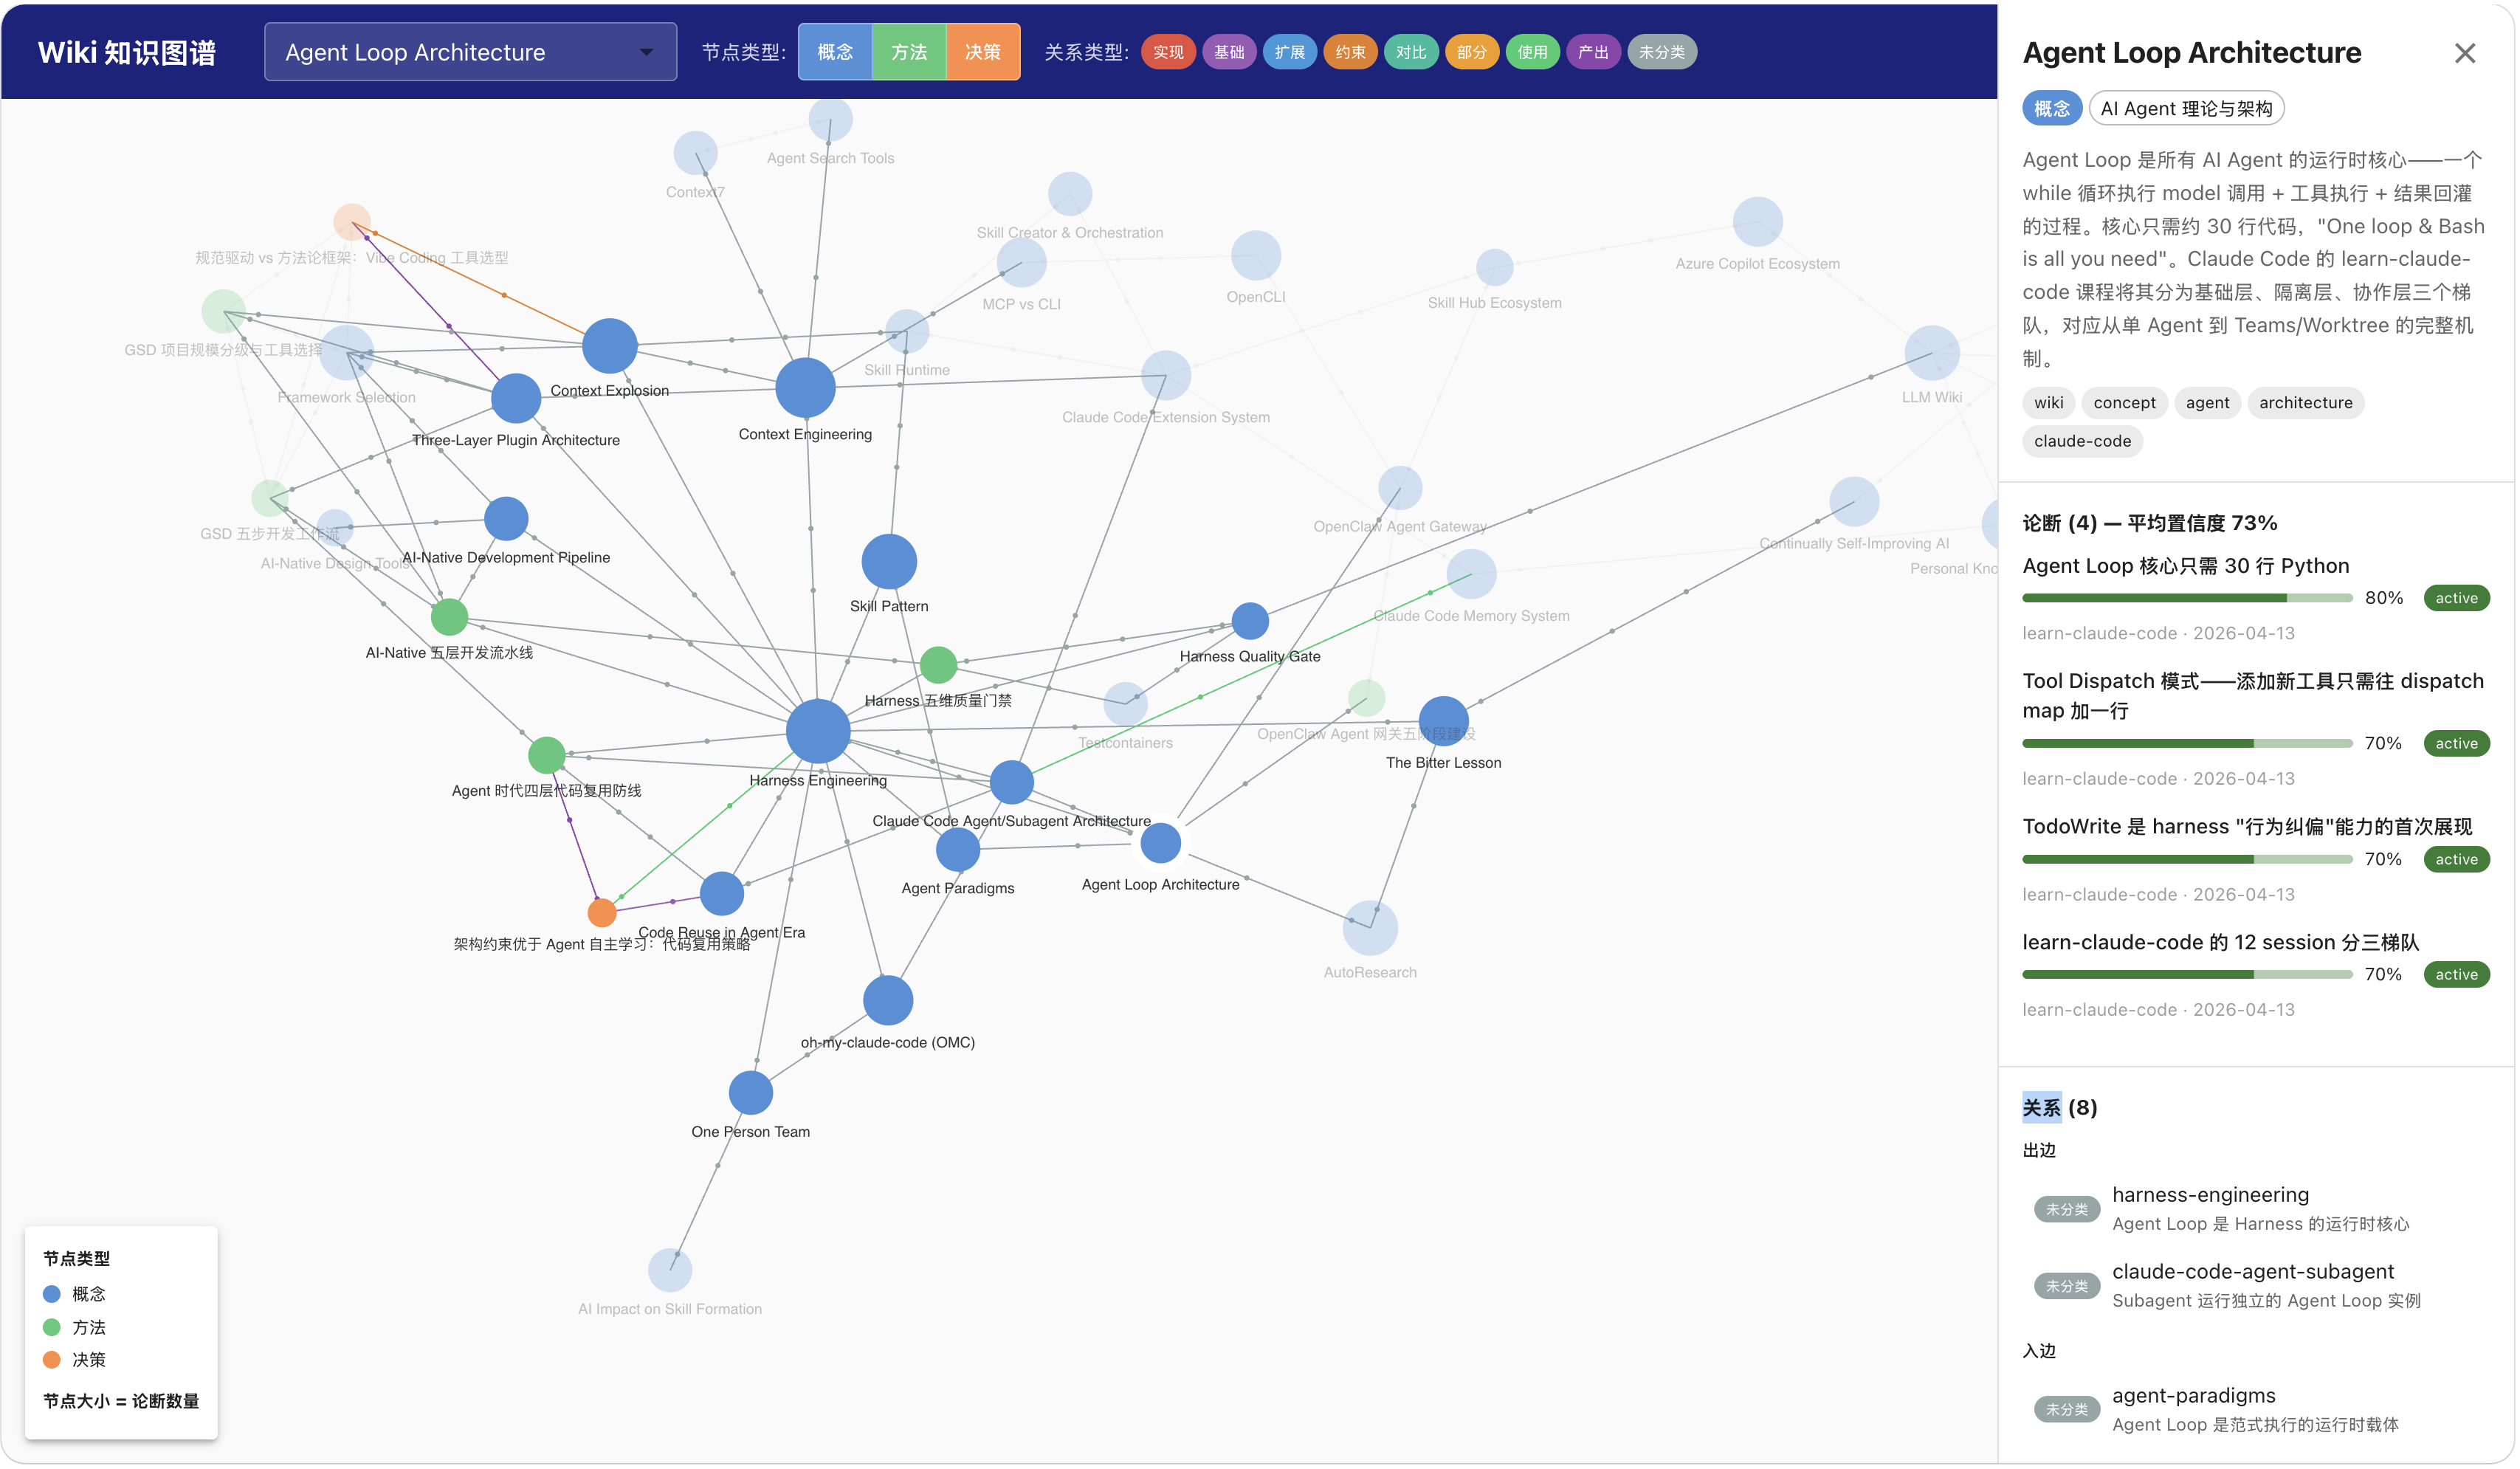
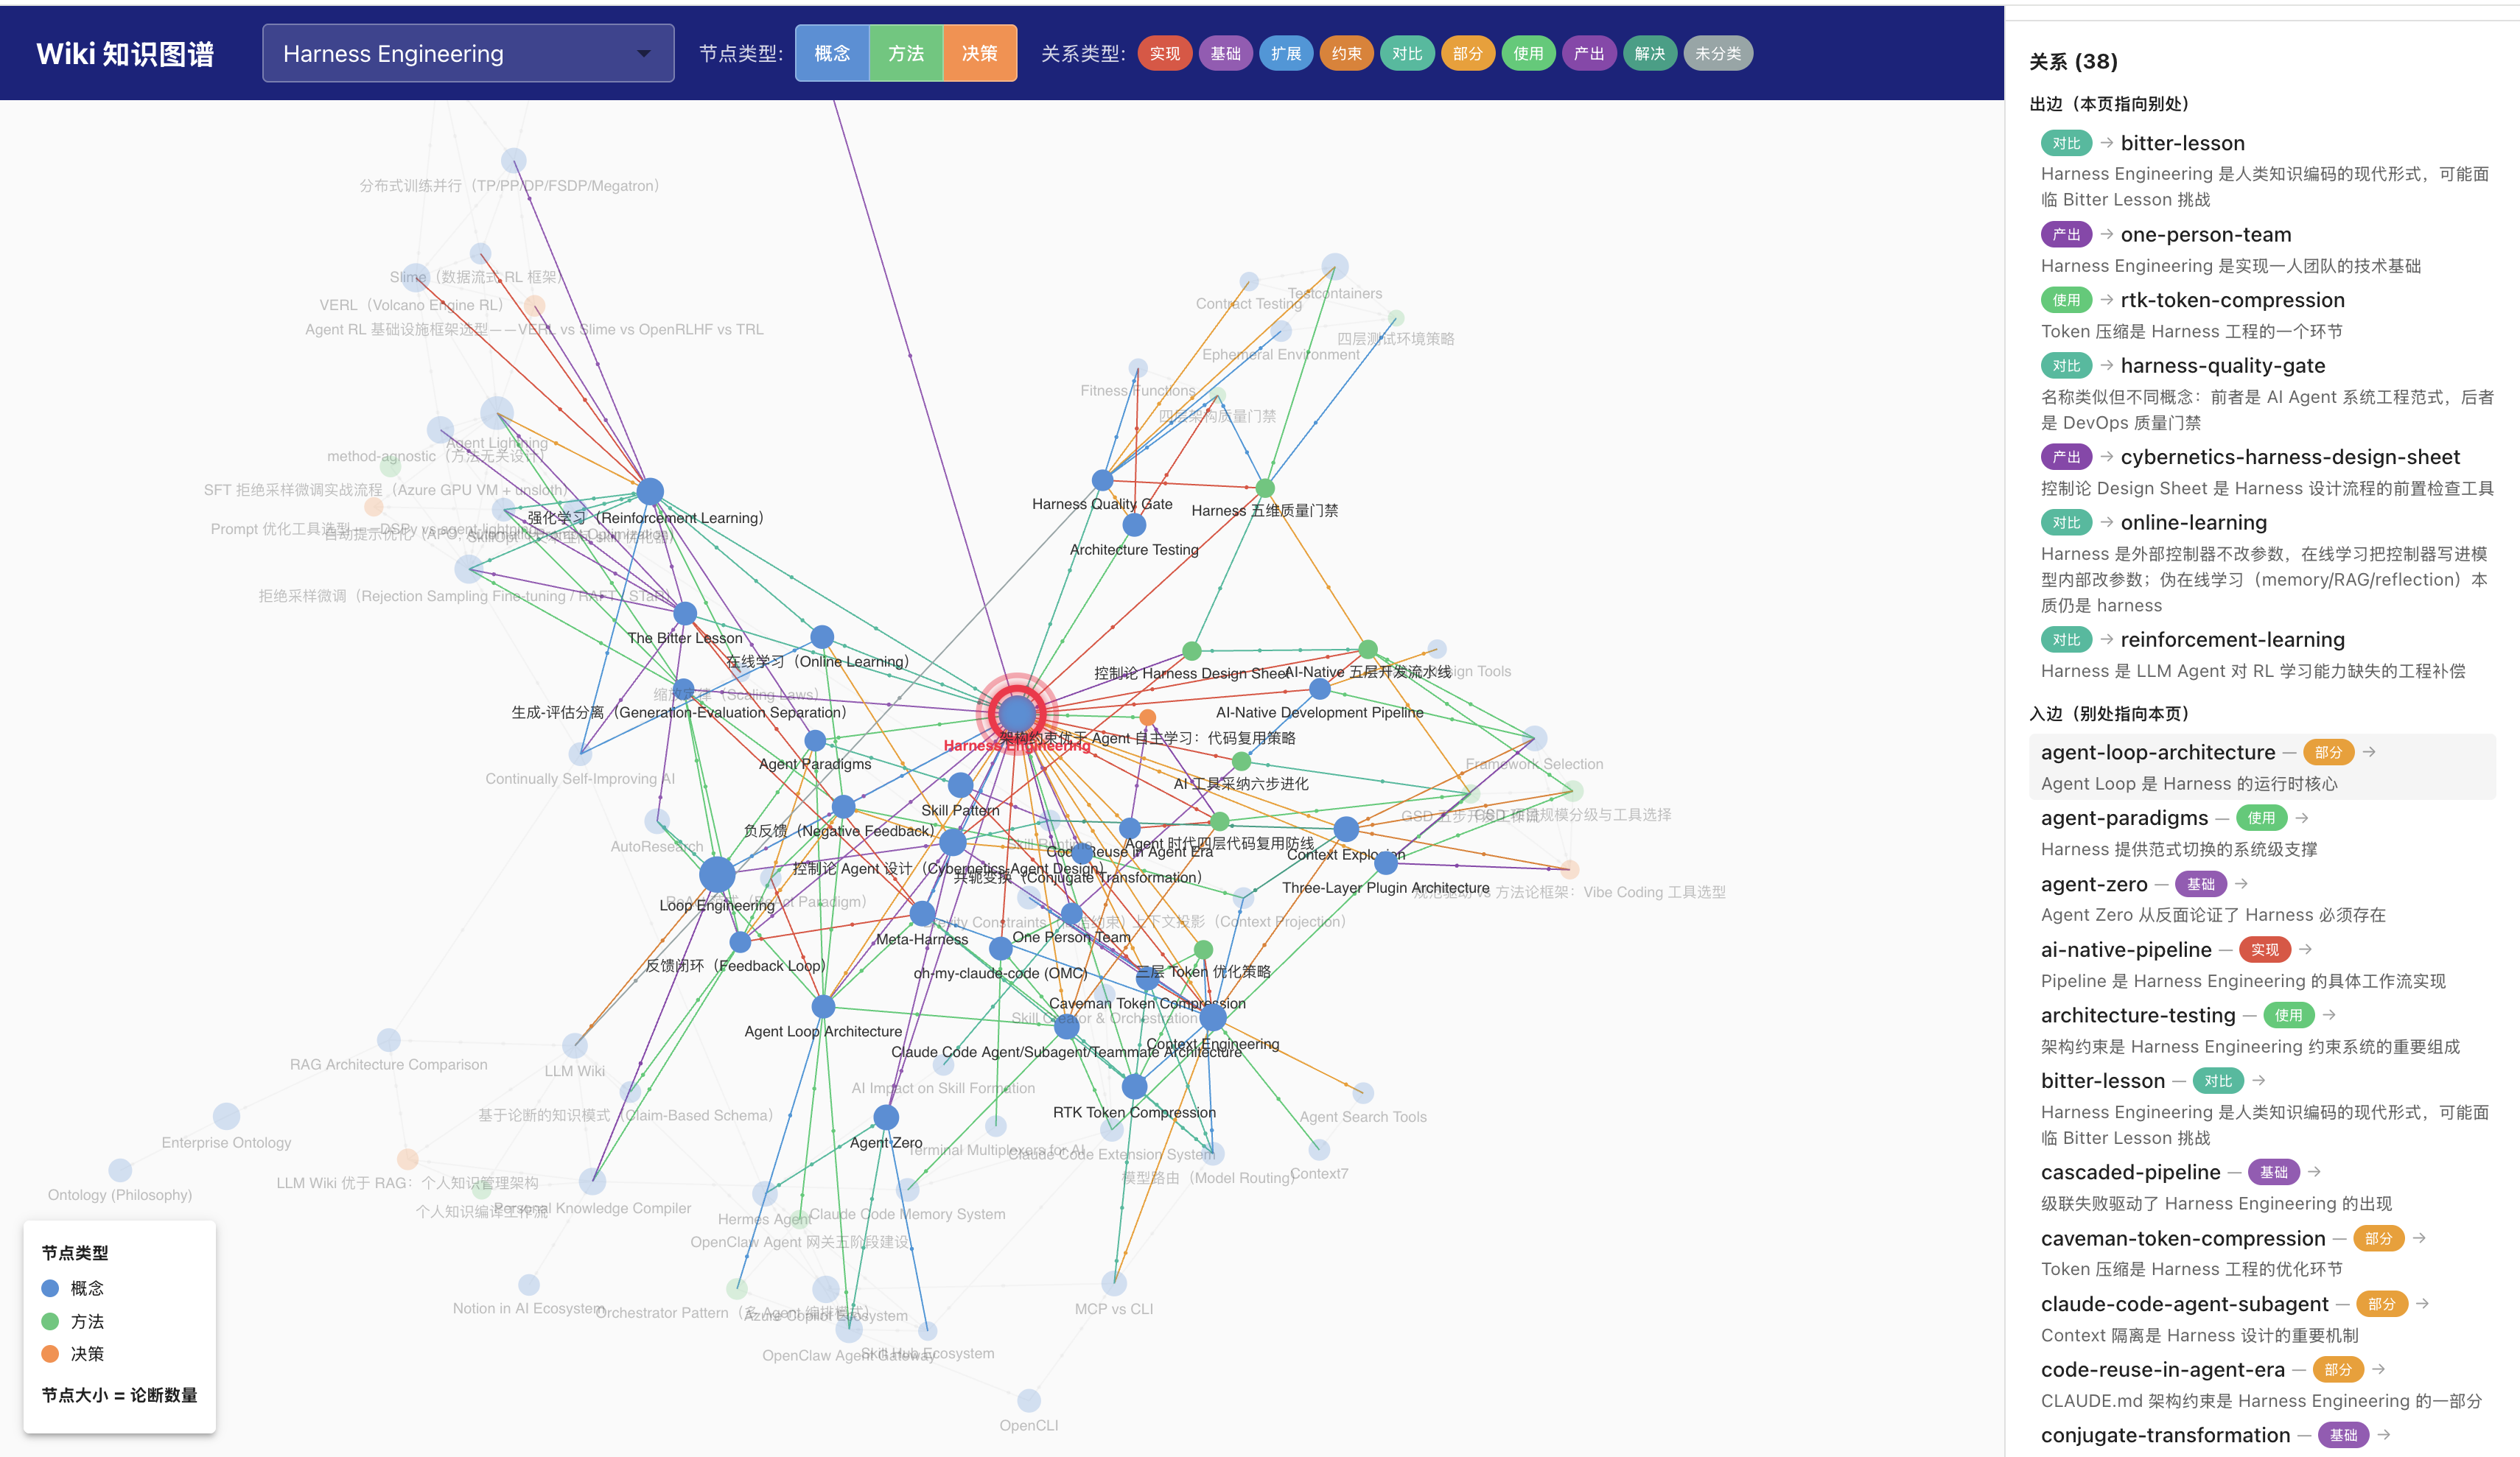
docs(readme): 更新 LLM-wiki 图为带红色圆环高亮当前节点的新版本
README 直接引用仓库内 wiki/LLM-wiki.png，替换原 GitHub 上传附件链接

diff --git a/README.md b/README.md
@@ -7,7 +7,7 @@ This vault captures reading notes, technical deep-dives, and reflections from an
 
 ## Wiki Knowledge Graph
 
-<img width="1707" height="995" alt="LLM-wiki" src="https://github.com/user-attachments/assets/04085aab-af1d-4436-b1ba-e1be6ef865d4" />
+<img width="1707" alt="LLM-wiki" src="wiki/LLM-wiki.png" />
 
 **[View Live Graph](https://huqianghui.github.io/mindforge/wiki/)** — Interactive force-directed visualization of the personal knowledge wiki, covering concepts, methods, decisions, and their typed relations.
 
@@ -74,6 +74,7 @@ qmd get qmd://mindforge/wiki/index.md  # 直接取文档
 - [FDE 职业进化论——AI 时代前线部署工程师的个人突围与团队重构](Notes/AI/FDE职业进化论——AI时代前线部署工程师的个人突围与团队重构.md)
 - [Agentic Engineering——质量与成本的一体化优化](Notes/AI/Agentic-Engineering——质量与成本的一体化优化.md)
 - [去除AI味：从语言指纹到人机文本边界的消融](去除AI味：从语言指纹到人机文本边界的消融.md)
+- [Scaling Agentic AI with NVIDIA Dynamo on Azure AI Platforms](Notes/AI/Scaling-Agentic-AI-with-NVIDIA-Dynamo-on-Azure.md)
 
 ### Notes/AI/Context-Engineering
 
@@ -179,15 +180,21 @@ qmd get qmd://mindforge/wiki/index.md  # 直接取文档
 
 - [Notion 学习笔记——核心概念、AI Agent 能力与 Obsidian-Claude Code 协作架构](Notes/tool/Notion学习笔记——核心概念、AI%20Agent能力与Obsidian-Claude%20Code协作架构.md)
 - [cmux 使用笔记——从 Ghostty 增强到 AI Agent 终端的实践](Notes/tool/cmux使用笔记——从Ghostty增强到AI%20Agent终端的实践.md)
-- [从日记到知识库：Obsidian × oh-my-claudecode × LLM Wiki 的个人知识编译实践](Notes/tool/从日记到知识库：Obsidian%20×%20oh-my-claudecode%20×%20LLM%20Wiki%20的个人知识编译实践.md)
-- [个人知识编译器进化：从三层知识模型到持续迭代的知识系统](Notes/tool/个人知识编译器进化：从三层知识模型到持续迭代的知识系统.md)
 - [使用 Skill-Creator 融合多个 PPT Skill 打造 CSA 专属演示工具](Notes/tool/使用Skill-Creator融合多个PPT%20Skill打造CSA专属演示工具.md)
-- [RTK（Rust Token Killer）——AI Coding Agent 的 Token 压缩利器](Notes/tool/RTK（Rust%20Token%20Killer）——AI%20Coding%20Agent的Token压缩利器.md)
+- [RTK 系列 01：RTK（Rust Token Killer）——AI Coding Agent 的 Token 压缩利器](Notes/tool/rtk/RTK系列01：RTK（Rust%20Token%20Killer）——AI%20Coding%20Agent的Token压缩利器.md)
+- [RTK 系列 02：源码深度解析——从 CLI 代理到 Token 压缩的工程实现](Notes/tool/rtk/RTK系列02：源码深度解析——从CLI代理到Token压缩的工程实现.md)
+- [RTK 系列 03：个性化优化引擎——基于 Session 数据的智能调优](Notes/tool/rtk/RTK系列03：个性化优化引擎——基于Session数据的智能调优.md)
+- [Rust 开发环境与 Cargo 构建指南](Notes/tool/rtk/Rust开发环境与Cargo构建指南.md)
 - [Caveman 深度解析——LLM Token 压缩的 Prompt Engineering 之道](Notes/tool/Caveman深度解析——LLM%20Token压缩的Prompt%20Engineering之道.md)
 - [Caveman 与 RTK 对比——两种互补的 LLM Token 优化方案](Notes/tool/Caveman与RTK对比——两种互补的LLM%20Token优化方案.md)
 - [CodexSaver 深度解析——基于 MCP 的模型路由 Token 成本优化](Notes/tool/CodexSaver深度解析——基于MCP的模型路由Token成本优化.md)
 - [Typeless 深度解析——AI 语音输入如何超越传统 Speech-to-Text](Notes/tool/Typeless深度解析——AI语音输入如何超越传统Speech-to-Text.md)
 - [Dev Tunnels 实践——本地服务暴露公网调试 Azure AI Search Skillset](Notes/tool/Dev%20Tunnels实践——本地服务暴露公网调试Azure%20AI%20Search%20Skillset.md)
+
+### Notes/pkc
+
+- [PKC 系列 01：从日记到知识库——Obsidian × oh-my-claudecode × LLM Wiki 的个人知识编译实践](Notes/pkc/PKC系列01：从日记到知识库——Obsidian%20×%20oh-my-claudecode%20×%20LLM%20Wiki%20的个人知识编译实践.md)
+- [PKC 系列 02：个人知识编译器进化——从三层知识模型到持续迭代的知识系统](Notes/pkc/PKC系列02：个人知识编译器进化——从三层知识模型到持续迭代的知识系统.md)
 
 ### Azure
 
@@ -207,6 +214,7 @@ qmd get qmd://mindforge/wiki/index.md  # 直接取文档
 - [Palantir Ontology：从哲学本体论到企业操作系统的工程实践](product/Palantir%20Ontology：从哲学本体论到企业操作系统的工程实践.md)
 - [Palantir 数据本体论（Ontology）：从概念到产品的深度解析](product/Palantir数据本体论（Ontology）：从概念到产品的深度解析.md)
 - [Accio Work——阿里跨境 AI Agent 工作台与企业级 Skill Hub 设计解读](product/Accio%20Work——阿里跨境AI%20Agent工作台与企业级Skill%20Hub设计解读.md)
+- [摄像头 ReID 人物识别——证明系统随使用越来越准的评估基准与流程设计](product/摄像头ReID人物识别——证明系统随使用越来越准的评估基准与流程设计.md)
 
 ### paper
 